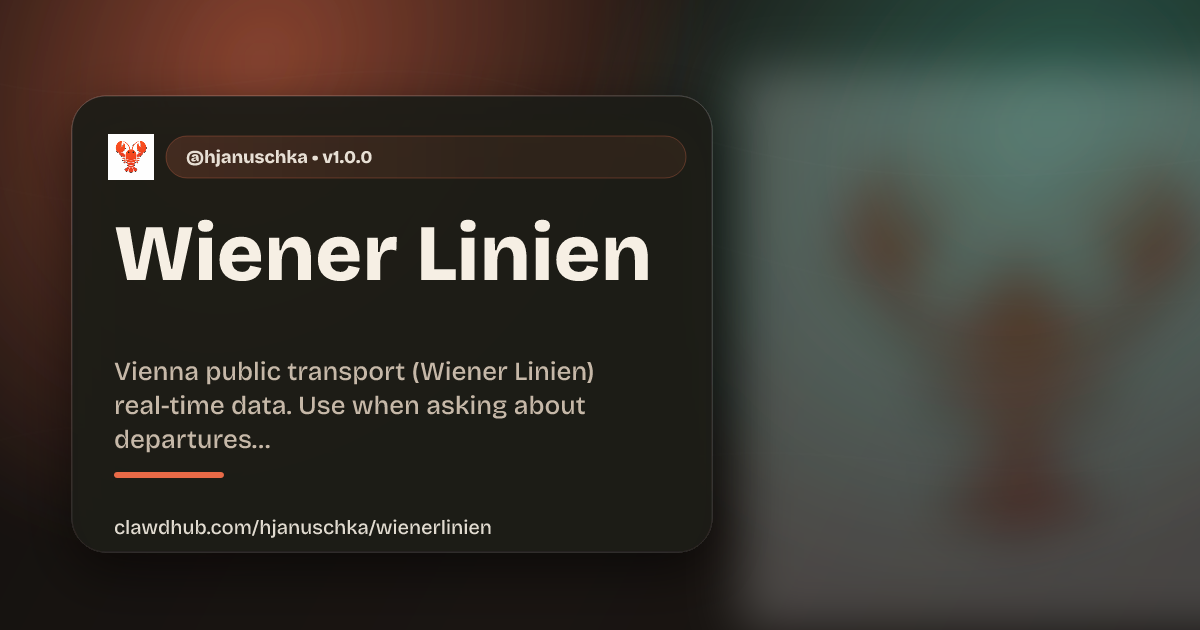
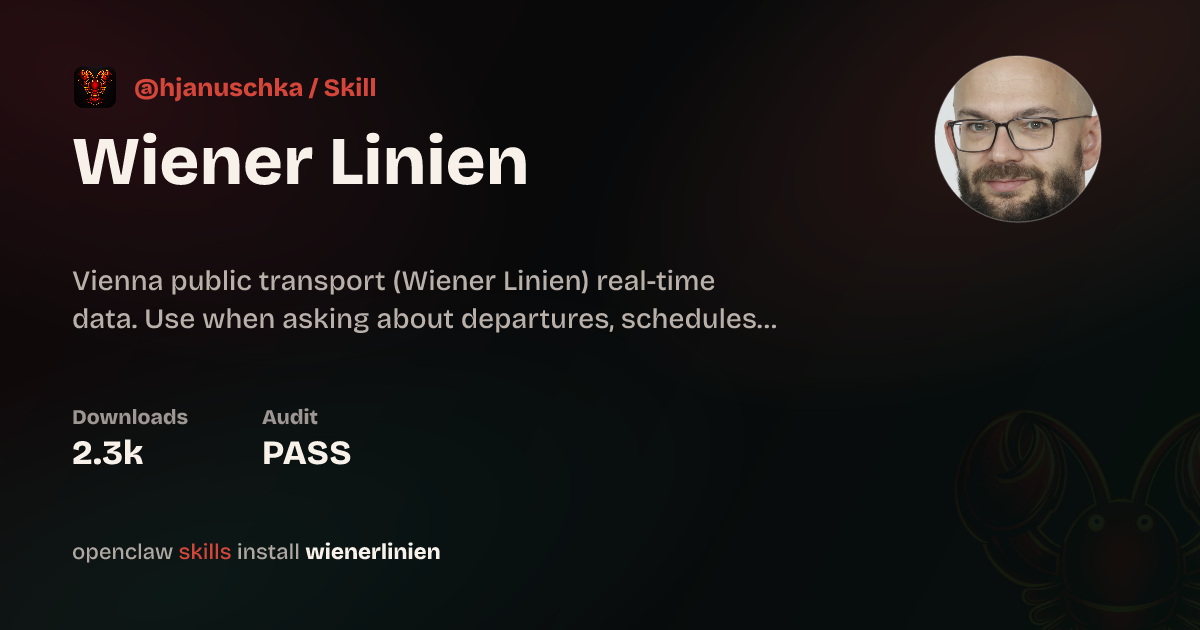
docs: refresh ClawHub showcase cards (#88734)

diff --git a/docs/start/showcase.md b/docs/start/showcase.md
@@ -101,6 +101,8 @@ Automated UK school meal booking via ParentPay. Uses mouse coordinates for relia
   **@julianengel** • `files` `r2` `presigned-urls`
 
 Upload to Cloudflare R2/S3 and generate secure presigned download links. Useful for remote OpenClaw instances.
+
+  <img src="/assets/showcase/r2-upload.png" alt="R2 upload skill on ClawHub" />
 </Card>
 
 <Card title="iOS app via Telegram" icon="mobile">
@@ -269,6 +271,8 @@ Vapi voice assistant to OpenClaw HTTP bridge. Near real-time phone calls with yo
   **@obviyus** • `transcription` `multilingual` `skill`
 
 Multi-lingual audio transcription via OpenRouter (Gemini, and more). Available on ClawHub.
+
+  <img src="/assets/showcase/openrouter-transcribe.png" alt="OpenRouter transcription skill on ClawHub" />
 </Card>
 
 </CardGroup>
@@ -289,6 +293,8 @@ OpenClaw gateway running on Home Assistant OS with SSH tunnel support and persis
   **ClawHub** • `homeassistant` `skill` `automation`
 
 Control and automate Home Assistant devices via natural language.
+
+  <img src="/assets/showcase/homeassistant.png" alt="Home Assistant skill on ClawHub" />
 </Card>
 
 <Card title="Nix packaging" icon="snowflake" href="https://github.com/openclaw/nix-openclaw">
@@ -301,6 +307,8 @@ Batteries-included nixified OpenClaw configuration for reproducible deployments.
   **ClawHub** • `calendar` `caldav` `skill`
 
 Calendar skill using khal and vdirsyncer. Self-hosted calendar integration.
+
+  <img src="/assets/showcase/caldav-calendar.png" alt="CalDAV calendar skill on ClawHub" />
 </Card>
 
 </CardGroup>
